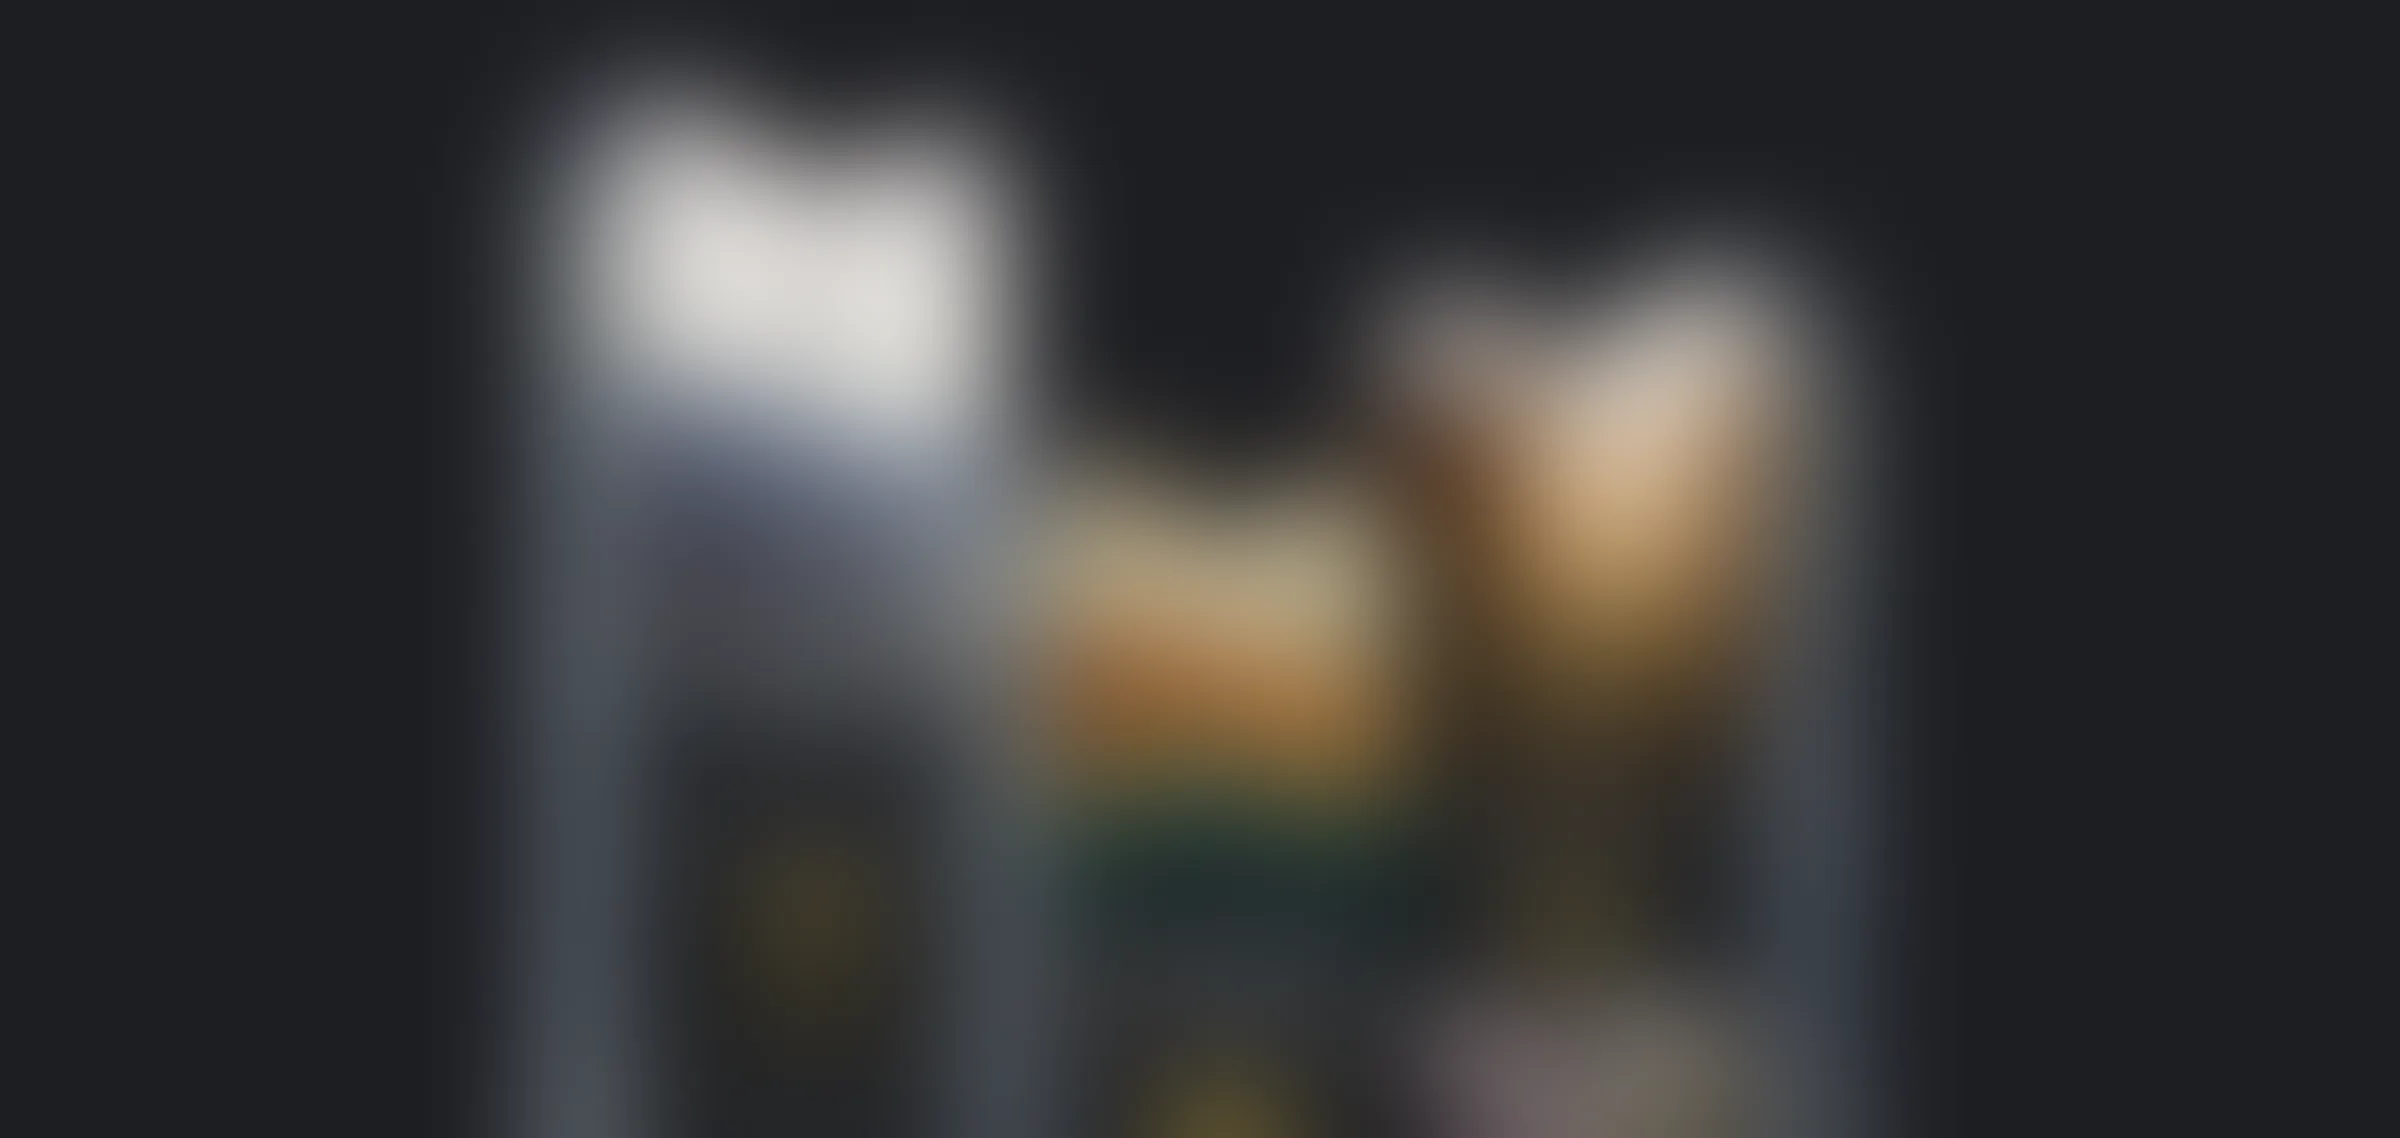
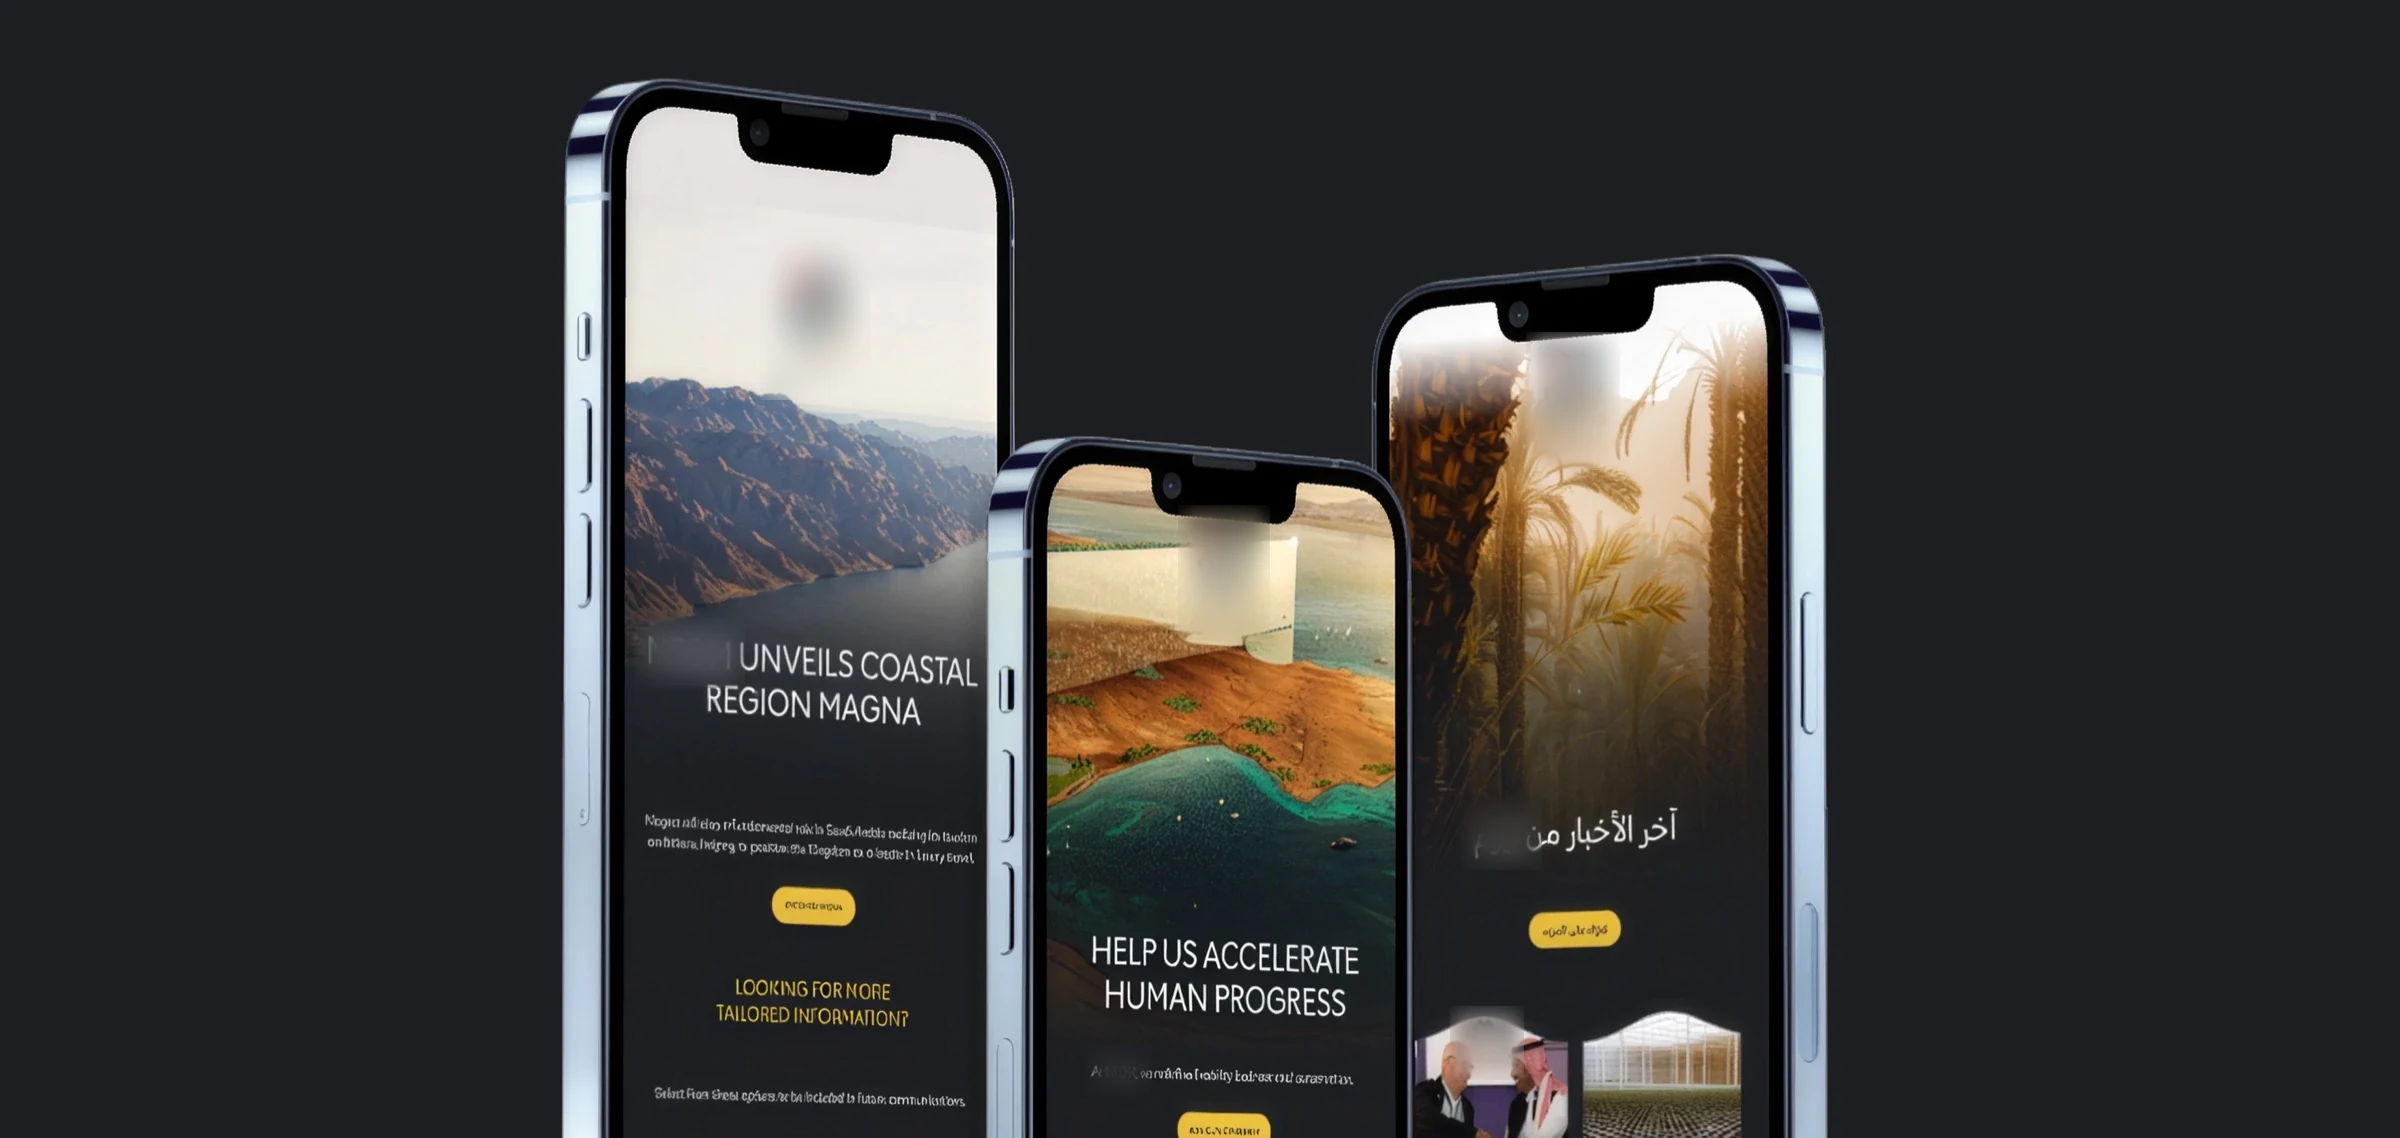
Mask only the client's marks on the thumbnail, not the whole image
Blurring the entire thumbnail hid the work along with the branding. The
objection was to the client's name and logo, so only those are masked now:
the three hexagon lockups, the Latin and Arabic wordmarks, the name in the
headline, and the small logo in the news card -- seven regions, located
against the original rather than guessed at.

Each patch is downsampled, blurred and upsampled so the detail is destroyed
rather than smeared, then composited through a feathered mask so it reads
as soft focus instead of taped-on rectangles. As before this is baked into
the file: a CSS filter would leave the unmasked original fetchable at its
own URL. The padlock and scrim stay, since the study is still gated.

diff --git a/assets/index.css b/assets/index.css
@@ -55,9 +55,10 @@ html body { background: rgb(5, 5, 5); }
 .hn-card-link:focus-visible [data-framer-name="Image Link"]{
   outline:2px solid rgba(120,170,255,.9);outline-offset:2px}
 
-/* Locked case study: the thumbnail file itself ships pre-blurred (a CSS
-   filter would leave the sharp original sitting fetchable at its own URL),
-   so this only adds the padlock and a slight scrim for contrast. */
+/* Locked case study: the thumbnail ships with the client's logos and name
+   already blurred into the file itself -- a CSS filter would leave the
+   unmasked original sitting fetchable at its own URL. The work stays sharp;
+   only the marks are gone. This adds the padlock and a light scrim. */
 .hn-locked{position:relative}
 .hn-locked::after{
   content:"";position:absolute;inset:0;border-radius:inherit;

diff --git a/index.html b/index.html
@@ -24,7 +24,7 @@
 <link rel="preconnect" href="https://fonts.googleapis.com">
 <link rel="preconnect" href="https://fonts.gstatic.com" crossorigin>
 <link href="https://fonts.googleapis.com/css2?family=Inter:wght@300;400;500;600;700&family=Inter+Tight:wght@300;400;500;600;700&display=swap" rel="stylesheet">
-<link rel="stylesheet" href="assets/index.css?v=c694bedf">
+<link rel="stylesheet" href="assets/index.css?v=29aa2eb5">
 <link rel="stylesheet" href="assets/shared.css?v=2d16d02d">
 <link rel="canonical" href="https://hasannawaz.com/">
 </head>
